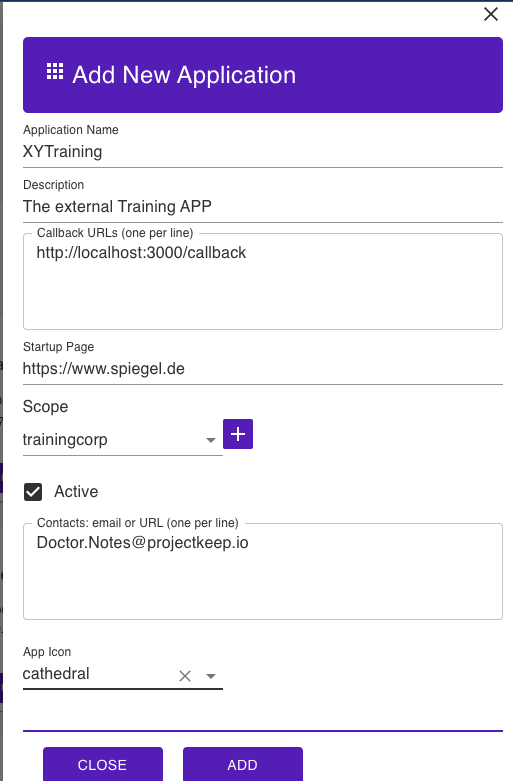
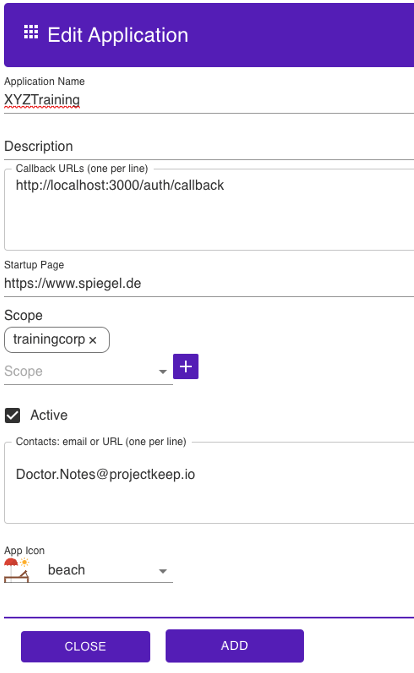
update lab06

diff --git a/docs/tutorial/walkthrough/lab-06.md b/docs/tutorial/walkthrough/lab-06.md
@@ -15,16 +15,22 @@ Run a custom NodeJS application that interacts with the Domino Rest API
 
 ## Steps
 
-- Unzip the NodeJSExample.zip in a new directory
-- Load it in your IDE
-- Edit the package.json - update the name
-- Edit the .env add the values from Lab06
-- run `npm install`
-- run `npm start`
+1. Download and unzip the [apps-src.zip](../walkthrough//downloads/apps-src.zip) from the `source for all apps` in a folder.
+2. Open your IDE (vs code, etc)
+3. Open the folder `DominoOAuth` in your IDE.
+4. Edit the `package.json`- on the scripts type in the `"start": "node app.js"`
+4. Edit the `setup.json` and add the values from **Lab05-Create Application** and also add values from the **Lab-04-Scope**.
+
+    !!!note
+        As a user you must know you must know what are the needed fields in order to run the `setup.json`.
+
+5. On your Terminal in your IDE, run `npm install`
+6. Run `npm start`. You must start in your browser.
+
 
 ## How to check
 
-- navigate to localhost:3000 - UI should show
+- navigate to http://localhost:3000 - UI should show
 - retrieve data
 
 ## Things to explore

diff --git a/docs/tutorial/walkthrough/lab-05.md b/docs/tutorial/walkthrough/lab-05.md
@@ -34,7 +34,7 @@ Alternative `POST` to `/api/setup-v1/admin/application`
 {
   "client_name": "XYTraining",
   "description": "The external Training APP",
-  "redirect_uris": ["http://localhost:3000/callback"],
+  "redirect_uris": ["http://localhost:3000/auth/callback"],
   "client_uri": "https://www.spiegel.de",
   "scope": "trainingcorp",
   "logo_uri": "cathedral",
